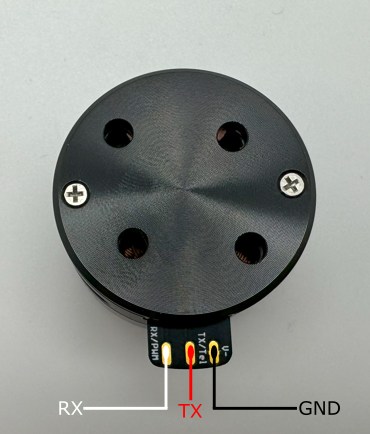
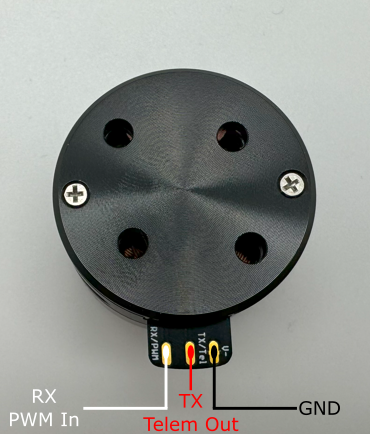
updated 23 connector picture. specify that CANBUS and CAN are the same

Changed region(s): [[0.3865, 0.8387, 0.6541, 1.0], [0.0297, 0.8986, 0.2378, 0.9885]]

diff --git a/docs/modules/vertiq_81xx_family.rst b/docs/modules/vertiq_81xx_family.rst
@@ -226,7 +226,7 @@ If you intend to control your module with the DroneCAN (previously UAVCAN) proto
 Optional DroneCAN Configuration
 ~~~~~~~~~~~~~~~~~~~~~~~~~~~~~~~~~~~~~~~~~~~~
 
-You will find the CAN connections on the underside of the module
+You will find the CANBUS (CAN) connections on the underside of the module
 
 .. figure:: ../_static/module_pictures/81xx/gen2/can_cnxn.png
         :height: 400

diff --git a/docs/modules/vertiq_40xx_family.rst b/docs/modules/vertiq_40xx_family.rst
@@ -117,7 +117,7 @@ If you intend to control your module with the DroneCAN (previously UAVCAN) proto
 Optional DroneCAN Configuration
 ~~~~~~~~~~~~~~~~~~~~~~~~~~~~~~~~~~~~~~~~~~~~
 
-You will find the CAN connections on the underside of the module
+You will find the CANBUS (CAN) connections on the underside of the module
 
 .. figure:: ../_static/module_pictures/40xx/40xx_can_cnxs.png
         :width: 450
